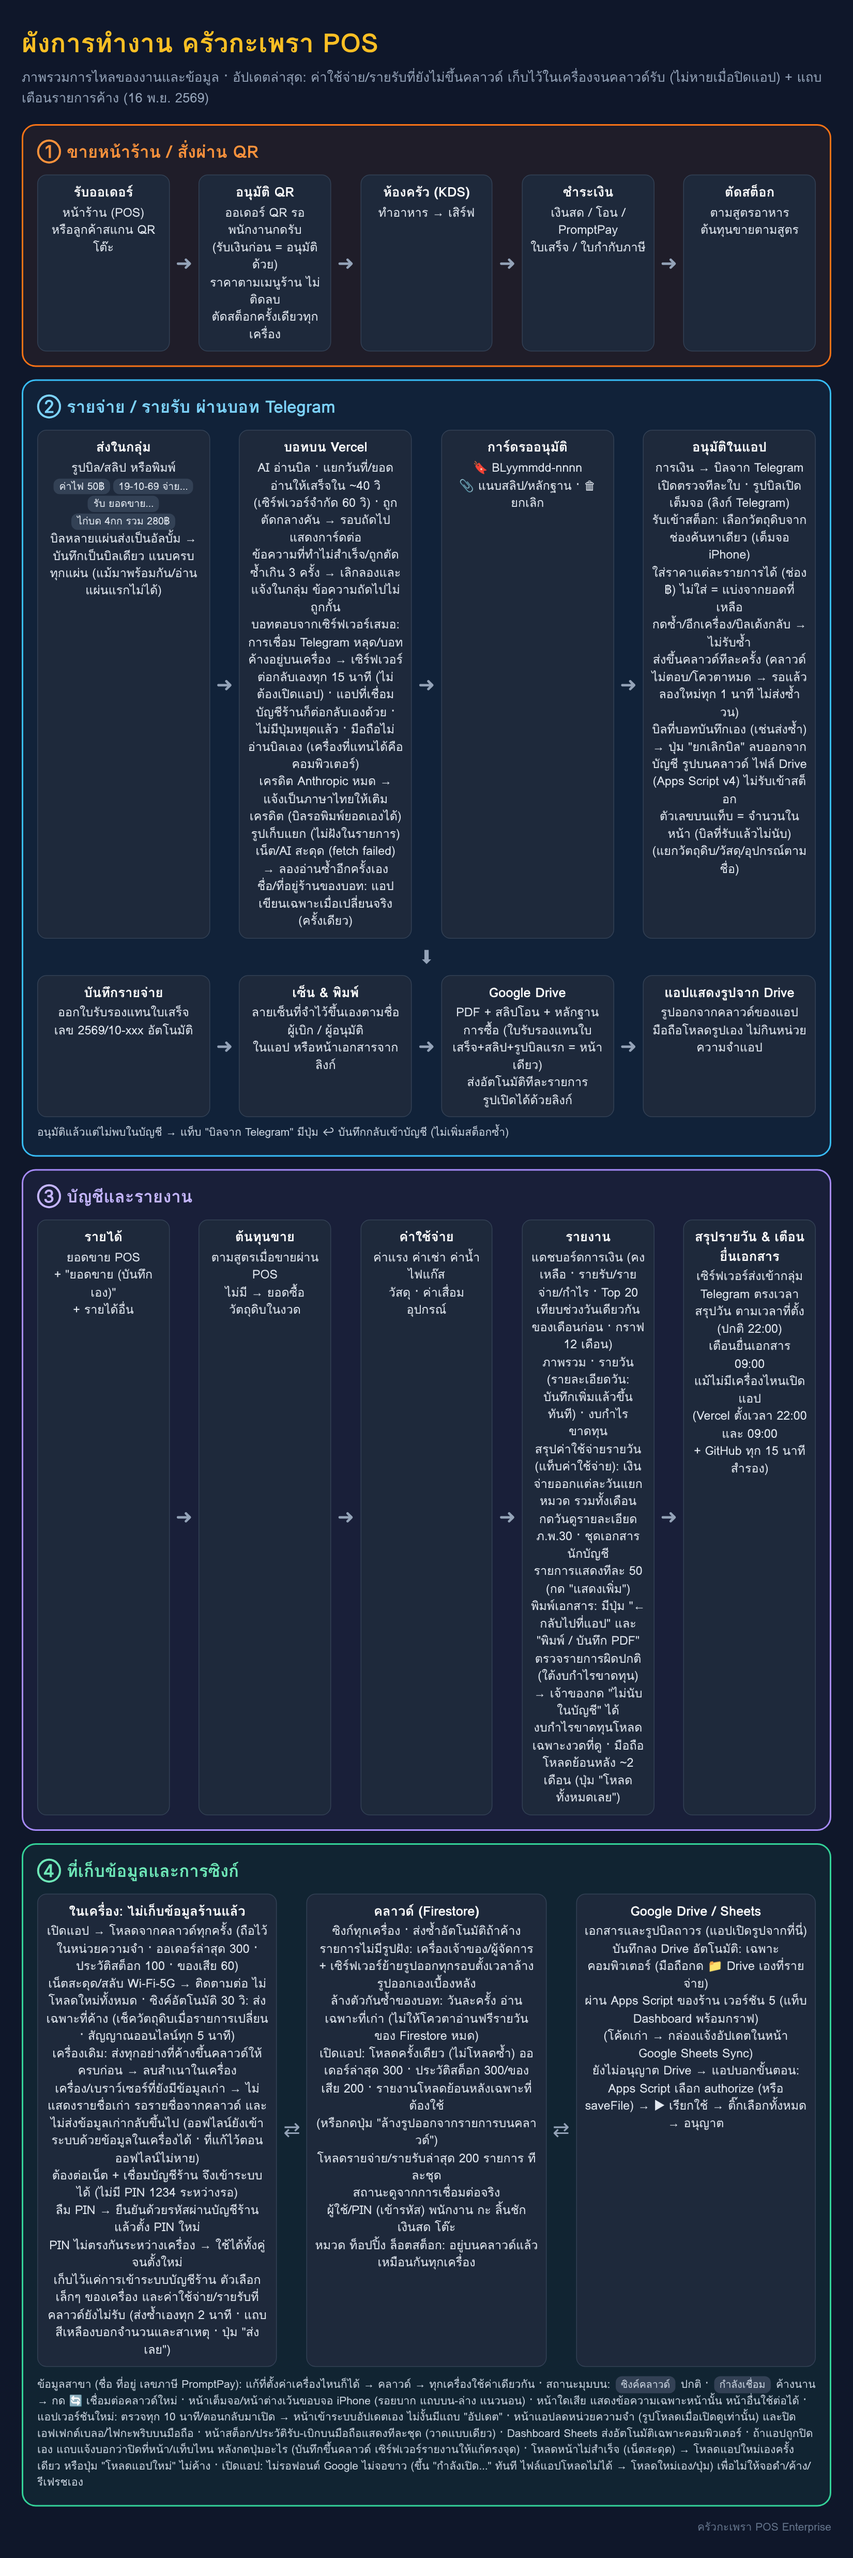
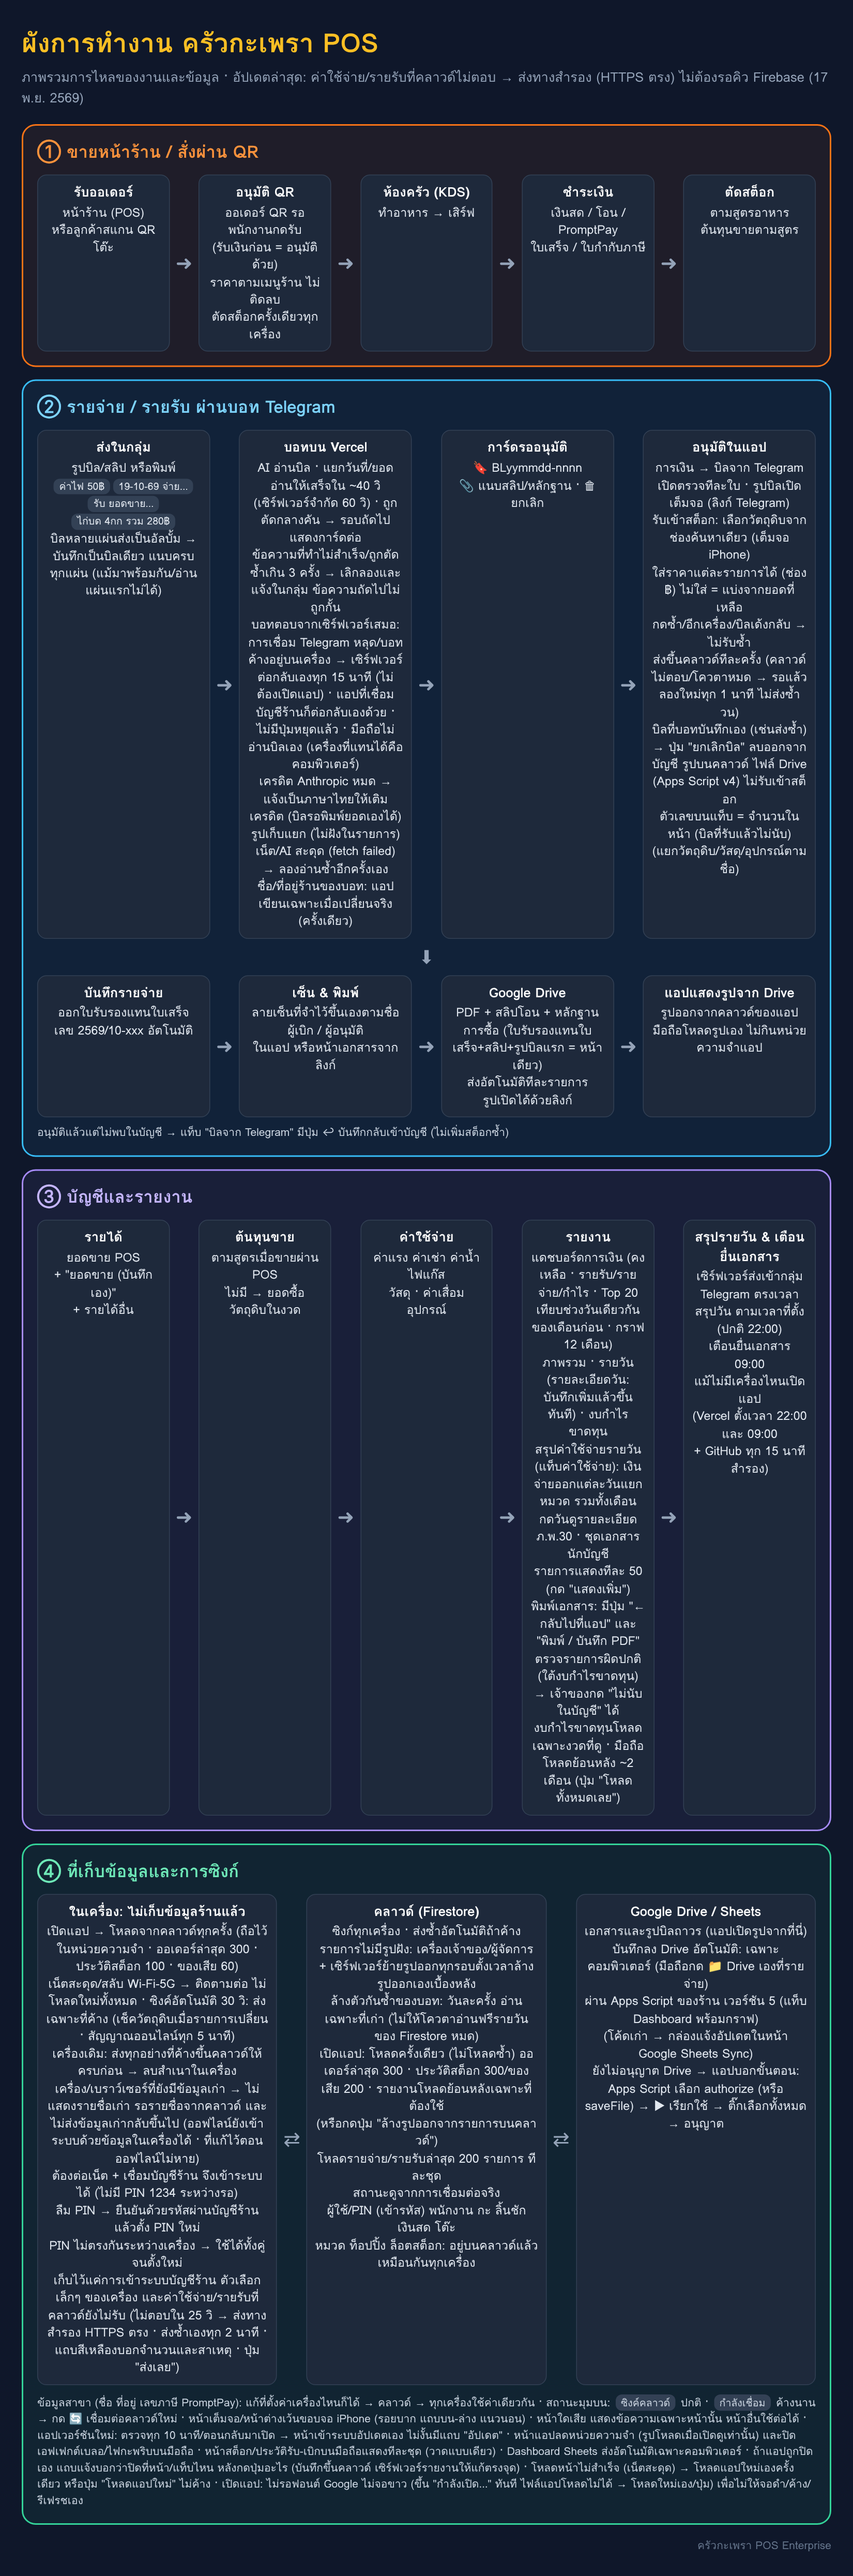
Expenses and income the Firebase library leaves unanswered go over a plain HTTPS request
The owner's phone showed 3 records waiting with 'the cloud did not answer
in 25 seconds' while reads worked and the quota was fine: the library's
saves stopped being answered and every record waited behind them. A save
not answered in 25 s, and every resend, now writes the record with one
request to Firestore's REST API as the shop account (same security
rules), outside the library's queue.

Claude-Session: https://claude.ai/code/session_01Gq3UvYW4wv3hsVCXoh5wxy

diff --git a/docs/workflow/flow.html b/docs/workflow/flow.html
@@ -17,7 +17,7 @@ h1{margin:0 0 4px;font-size:34px;color:#fbbf24}.sub{color:#94a3b8;font-size:17px
 .foot{color:#64748b;font-size:14px;margin-top:6px;text-align:right}
 </style></head><body>
 <h1>ผังการทำงาน ครัวกะเพรา POS</h1>
-<div class="sub">ภาพรวมการไหลของงานและข้อมูล · อัปเดตล่าสุด: ค่าใช้จ่าย/รายรับที่ยังไม่ขึ้นคลาวด์ เก็บไว้ในเครื่องจนคลาวด์รับ (ไม่หายเมื่อปิดแอป) + แถบเตือนรายการค้าง (16 พ.ย. 2569)</div>
+<div class="sub">ภาพรวมการไหลของงานและข้อมูล · อัปเดตล่าสุด: ค่าใช้จ่าย/รายรับที่คลาวด์ไม่ตอบ → ส่งทางสำรอง (HTTPS ตรง) ไม่ต้องรอคิว Firebase (17 พ.ย. 2569)</div>
 
 <div class="lane pos"><h2>① ขายหน้าร้าน / สั่งผ่าน QR</h2>
 <div class="row">
@@ -56,7 +56,7 @@ h1{margin:0 0 4px;font-size:34px;color:#fbbf24}.sub{color:#94a3b8;font-size:17px
 
 <div class="lane data"><h2>④ ที่เก็บข้อมูลและการซิงก์</h2>
 <div class="row">
-<div class="box"><b>ในเครื่อง: ไม่เก็บข้อมูลร้านแล้ว</b>เปิดแอป → โหลดจากคลาวด์ทุกครั้ง (ถือไว้ในหน่วยความจำ · ออเดอร์ล่าสุด 300 · ประวัติสต็อก 100 · ของเสีย 60)<br>เน็ตสะดุด/สลับ Wi-Fi-5G → ติดตามต่อ ไม่โหลดใหม่ทั้งหมด · ซิงค์อัตโนมัติ 30 วิ: ส่งเฉพาะที่ค้าง (เช็ควัตถุดิบเมื่อรายการเปลี่ยน · สัญญาณออนไลน์ทุก 5 นาที)<br>เครื่องเดิม: ส่งทุกอย่างที่ค้างขึ้นคลาวด์ให้ครบก่อน → ลบสำเนาในเครื่อง<br>เครื่อง/เบราว์เซอร์ที่ยังมีข้อมูลเก่า → ไม่แสดงรายชื่อเก่า รอรายชื่อจากคลาวด์ และไม่ส่งข้อมูลเก่ากลับขึ้นไป (ออฟไลน์ยังเข้าระบบด้วยข้อมูลในเครื่องได้ · ที่แก้ไว้ตอนออฟไลน์ไม่หาย)<br>ต้องต่อเน็ต + เชื่อมบัญชีร้าน จึงเข้าระบบได้ (ไม่มี PIN 1234 ระหว่างรอ)<br>ลืม PIN → ยืนยันด้วยรหัสผ่านบัญชีร้าน แล้วตั้ง PIN ใหม่<br>PIN ไม่ตรงกันระหว่างเครื่อง → ใช้ได้ทั้งคู่จนตั้งใหม่<br>เก็บไว้แค่การเข้าระบบบัญชีร้าน ตัวเลือกเล็กๆ ของเครื่อง และค่าใช้จ่าย/รายรับที่คลาวด์ยังไม่รับ (ส่งซ้ำเองทุก 2 นาที · แถบสีเหลืองบอกจำนวนและสาเหตุ · ปุ่ม "ส่งเลย")</div><div class="ar">⇄</div>
+<div class="box"><b>ในเครื่อง: ไม่เก็บข้อมูลร้านแล้ว</b>เปิดแอป → โหลดจากคลาวด์ทุกครั้ง (ถือไว้ในหน่วยความจำ · ออเดอร์ล่าสุด 300 · ประวัติสต็อก 100 · ของเสีย 60)<br>เน็ตสะดุด/สลับ Wi-Fi-5G → ติดตามต่อ ไม่โหลดใหม่ทั้งหมด · ซิงค์อัตโนมัติ 30 วิ: ส่งเฉพาะที่ค้าง (เช็ควัตถุดิบเมื่อรายการเปลี่ยน · สัญญาณออนไลน์ทุก 5 นาที)<br>เครื่องเดิม: ส่งทุกอย่างที่ค้างขึ้นคลาวด์ให้ครบก่อน → ลบสำเนาในเครื่อง<br>เครื่อง/เบราว์เซอร์ที่ยังมีข้อมูลเก่า → ไม่แสดงรายชื่อเก่า รอรายชื่อจากคลาวด์ และไม่ส่งข้อมูลเก่ากลับขึ้นไป (ออฟไลน์ยังเข้าระบบด้วยข้อมูลในเครื่องได้ · ที่แก้ไว้ตอนออฟไลน์ไม่หาย)<br>ต้องต่อเน็ต + เชื่อมบัญชีร้าน จึงเข้าระบบได้ (ไม่มี PIN 1234 ระหว่างรอ)<br>ลืม PIN → ยืนยันด้วยรหัสผ่านบัญชีร้าน แล้วตั้ง PIN ใหม่<br>PIN ไม่ตรงกันระหว่างเครื่อง → ใช้ได้ทั้งคู่จนตั้งใหม่<br>เก็บไว้แค่การเข้าระบบบัญชีร้าน ตัวเลือกเล็กๆ ของเครื่อง และค่าใช้จ่าย/รายรับที่คลาวด์ยังไม่รับ (ไม่ตอบใน 25 วิ → ส่งทางสำรอง HTTPS ตรง · ส่งซ้ำเองทุก 2 นาที · แถบสีเหลืองบอกจำนวนและสาเหตุ · ปุ่ม "ส่งเลย")</div><div class="ar">⇄</div>
 <div class="box"><b>คลาวด์ (Firestore)</b>ซิงก์ทุกเครื่อง · ส่งซ้ำอัตโนมัติถ้าค้าง<br>รายการไม่มีรูปฝัง: เครื่องเจ้าของ/ผู้จัดการ<br>+ เซิร์ฟเวอร์ย้ายรูปออกทุกรอบตั้งเวลาล้างรูปออกเองเบื้องหลัง<br>ล้างตัวกันซ้ำของบอท: วันละครั้ง อ่านเฉพาะที่เก่า (ไม่ให้โควตาอ่านฟรีรายวันของ Firestore หมด)<br>เปิดแอป: โหลดครั้งเดียว (ไม่โหลดซ้ำ) ออเดอร์ล่าสุด 300 · ประวัติสต็อก 300/ของเสีย 200 · รายงานโหลดย้อนหลังเฉพาะที่ต้องใช้<br>(หรือกดปุ่ม "ล้างรูปออกจากรายการบนคลาวด์")<br>โหลดรายจ่าย/รายรับล่าสุด 200 รายการ ทีละชุด<br>สถานะดูจากการเชื่อมต่อจริง<br>ผู้ใช้/PIN (เข้ารหัส) พนักงาน กะ ลิ้นชักเงินสด โต๊ะ<br>หมวด ท็อปปิ้ง ล็อตสต็อก: อยู่บนคลาวด์แล้ว เหมือนกันทุกเครื่อง</div><div class="ar">⇄</div>
 <div class="box"><b>Google Drive / Sheets</b>เอกสารและรูปบิลถาวร (แอปเปิดรูปจากที่นี่)<br>บันทึกลง Drive อัตโนมัติ: เฉพาะคอมพิวเตอร์ (มือถือกด 📁 Drive เองที่รายจ่าย)<br>ผ่าน Apps Script ของร้าน เวอร์ชัน 5 (แท็บ Dashboard พร้อมกราฟ)<br>(โค้ดเก่า → กล่องแจ้งอัปเดตในหน้า Google Sheets Sync)<br>ยังไม่อนุญาต Drive → แอปบอกขั้นตอน: Apps Script เลือก authorize (หรือ saveFile) → ▶ เรียกใช้ → ติ๊กเลือกทั้งหมด → อนุญาต</div>
 </div>

diff --git a/src/services/firebaseService.ts b/src/services/firebaseService.ts
@@ -44,6 +44,7 @@ import {
 import { initializeAppCheck, ReCaptchaV3Provider } from 'firebase/app-check';
 import { isStubOrderDoc, leftLimitedWindow } from '../utils/orderUtils';
 import firebaseConfig from '../../firebase-applet-config.json';
+import { toFsFields } from '../server/firestoreRest';
 import { Order, OrderStatus, CartItem, Ingredient, Branch, StockAdjustmentLog, WasteLog, Expense, OtherIncome, MenuItem, CategoryItem, AddOnOption, SystemSettings } from '../types';
 
 /** Stock types saved with an ingredient (see utils/stockTypes) */
@@ -1018,6 +1019,91 @@ function cloudPurchaseImages(expense: Expense, maxEach = Infinity): { name: stri
   return others + total < 900_000 ? imgs : null;
 }
 
+/** An expense as its cloud document (without updatedAt, which each way of saving stamps itself) */
+function expensePayload(expense: Expense, branch: Branch | undefined, nowIso: string): Record<string, unknown> {
+  return {
+    id: expense.id,
+    branchId: expense.branchId || branch?.id || '',
+    category: expense.category,
+    title: expense.title,
+    amount: Number(expense.amount) || 0,
+    includeVat: !!expense.includeVat,
+    vatAmount: Number(expense.vatAmount) || 0,
+    netAmount: Number(expense.netAmount) || 0,
+    refNumber: expense.refNumber || '',
+    note: expense.note || '',
+    date: expense.date,
+    receiptImage: expense.receiptImage || null,
+    receiptImageName: expense.receiptImageName || null,
+    substituteReceipt: expense.substituteReceipt || null,
+    paidFrom: expense.paidFrom || null,
+    vat36: expense.vat36 || null,
+    driveFiles: expense.driveFiles || null,
+    purchaseImages: cloudPurchaseImages(expense),
+    syncedAt: nowIso
+  };
+}
+
+/** An income record as its cloud document (without updatedAt) */
+function incomePayload(income: OtherIncome, branch: Branch | undefined, nowIso: string): Record<string, unknown> {
+  return {
+    id: income.id,
+    branchId: income.branchId || branch?.id || '',
+    category: income.category,
+    title: income.title,
+    amount: Number(income.amount) || 0,
+    date: income.date,
+    paymentMethod: income.paymentMethod || 'promptpay',
+    payerName: income.payerName || '',
+    refNumber: income.refNumber || '',
+    note: income.note || '',
+    slipImage: income.slipImage && income.slipImage.length < 250000 ? income.slipImage : null,
+    slipImageName: income.slipImageName || null,
+    syncedAt: nowIso
+  };
+}
+
+/**
+ * An expense or income saved with one plain HTTPS request (Firestore's REST API, as the shop
+ * account), not through the Firebase library. On the owner's phone the library's saves stopped
+ * being answered (reads still worked) and every record waited behind them; this way does not wait
+ * in that line. The same security rules apply.
+ */
+export async function saveMoneyRecordDirect(kind: 'e' | 'i', rec: Expense | OtherIncome, branch?: Branch): Promise<boolean> {
+  const u = authInstance?.currentUser;
+  if (!u || u.isAnonymous || !navigator.onLine) return false;
+  try {
+    const token = await u.getIdToken();
+    const cfg = firebaseConfig as any;
+    const collectionName = kind === 'e' ? 'expenses' : 'incomes';
+    const prefix = kind === 'e' ? 'exp-' : 'inc-';
+    const id = rec.id.startsWith(prefix) ? rec.id : `${prefix}${rec.id}`;
+    const nowIso = new Date().toISOString();
+    const data = { ...(kind === 'e' ? expensePayload(rec as Expense, branch, nowIso) : incomePayload(rec as OtherIncome, branch, nowIso)), updatedAt: new Date() };
+    const mask = Object.keys(data).map(k => `updateMask.fieldPaths=${encodeURIComponent(k)}`).join('&');
+    const url = `https://firestore.googleapis.com/v1/projects/${cfg.projectId}/databases/${encodeURIComponent(cfg.firestoreDatabaseId || '(default)')}/documents/${collectionName}/${encodeURIComponent(id)}?${mask}`;
+    const controller = new AbortController();
+    const timer = setTimeout(() => controller.abort(), 30_000);
+    try {
+      const res = await fetch(url, {
+        method: 'PATCH',
+        headers: { Authorization: `Bearer ${token}`, 'Content-Type': 'application/json' },
+        body: JSON.stringify({ fields: toFsFields(data) }),
+        signal: controller.signal
+      });
+      if (res.ok) return true;
+      const body = await res.json().catch(() => ({}));
+      lastWriteError = `HTTP ${res.status} ${String((body as any)?.error?.message || '').slice(0, 140)}`.trim();
+      return false;
+    } finally {
+      clearTimeout(timer);
+    }
+  } catch (err) {
+    noteWriteError(err);
+    return false;
+  }
+}
+
 /** Why the last save of an expense or income failed (shown to the person while records wait) */
 let lastWriteError = '';
 export const lastCloudWriteError = () => lastWriteError;
@@ -1034,28 +1120,7 @@ export async function syncExpenseToFirestore(expense: Expense, branch?: Branch):
     const expenseRef = doc(dbInstance, 'expenses', expenseDocId);
     const nowIso = new Date().toISOString();
 
-    const payload = {
-      id: expense.id,
-      branchId: expense.branchId || branch?.id || '',
-      category: expense.category,
-      title: expense.title,
-      amount: Number(expense.amount) || 0,
-      includeVat: !!expense.includeVat,
-      vatAmount: Number(expense.vatAmount) || 0,
-      netAmount: Number(expense.netAmount) || 0,
-      refNumber: expense.refNumber || '',
-      note: expense.note || '',
-      date: expense.date,
-      receiptImage: expense.receiptImage || null,
-      receiptImageName: expense.receiptImageName || null,
-      substituteReceipt: expense.substituteReceipt || null,
-      paidFrom: expense.paidFrom || null,
-      vat36: expense.vat36 || null,
-      driveFiles: expense.driveFiles || null,
-      purchaseImages: cloudPurchaseImages(expense),
-      syncedAt: nowIso,
-      updatedAt: serverTimestamp()
-    };
+    const payload = { ...expensePayload(expense, branch, nowIso), updatedAt: serverTimestamp() };
 
     await setDoc(expenseRef, payload, { merge: true });
     return true;
@@ -1185,22 +1250,7 @@ export async function syncIncomeToFirestore(income: OtherIncome, branch?: Branch
     const incomeRef = doc(dbInstance, 'incomes', incomeDocId);
     const nowIso = new Date().toISOString();
 
-    const payload = {
-      id: income.id,
-      branchId: income.branchId || branch?.id || '',
-      category: income.category,
-      title: income.title,
-      amount: Number(income.amount) || 0,
-      date: income.date,
-      paymentMethod: income.paymentMethod || 'promptpay',
-      payerName: income.payerName || '',
-      refNumber: income.refNumber || '',
-      note: income.note || '',
-      slipImage: (income.slipImage && income.slipImage.length < 250000) ? income.slipImage : null,
-      slipImageName: income.slipImageName || null,
-      syncedAt: nowIso,
-      updatedAt: serverTimestamp()
-    };
+    const payload = { ...incomePayload(income, branch, nowIso), updatedAt: serverTimestamp() };
 
     await setDoc(incomeRef, payload, { merge: true });
     return true;

diff --git a/src/context/POSContext.tsx b/src/context/POSContext.tsx
@@ -59,6 +59,7 @@ import {
   syncBranchToFirestore,
   pingBranchToFirestore,
   lastCloudWriteError,
+  saveMoneyRecordDirect,
   syncOrderToFirestore,
   syncOrdersBatchToFirestore,
   syncInventoryToFirestore,
@@ -4495,6 +4496,8 @@ export const POSProvider: React.FC<{ children: ReactNode }> = ({ children }) => 
     // The record goes at once; its pictures follow in the background (a large picture first in
     // line held the record and everything after it)
     void answeredSoon(send(rec))
+      // Not answered: the same record over a plain request (see saveMoneyRecordDirect)
+      .then(ok => ok || saveMoneyRecordDirect(kind, rec, currentBranch))
       .then(ok => {
         if (ok) {
           markUnsent(key, false);
@@ -4592,13 +4595,13 @@ export const POSProvider: React.FC<{ children: ReactNode }> = ({ children }) => 
               const rec = incomesRef.current.find(r => r.id === id) || (box[key] as OtherIncome | undefined);
               if (!rec) return true; // deleted since
               if (!incomesRef.current.some(r => r.id === id)) setIncomes(prev => (prev.some(r => r.id === id) ? prev : [rec, ...prev]));
-              return answeredSoon(syncIncomeToFirestore(rec, currentBranch));
+              return (await answeredSoon(syncIncomeToFirestore(rec, currentBranch))) || saveMoneyRecordDirect('i', rec, currentBranch);
             })()
           : await (async () => {
               const rec = expensesRef.current.find(r => r.id === id) || (box[key] as Expense | undefined);
               if (!rec) return true;
               if (!expensesRef.current.some(r => r.id === id)) setExpenses(prev => (prev.some(r => r.id === id) ? prev : [rec, ...prev]));
-              return answeredSoon(syncExpenseToFirestore(rec, currentBranch));
+              return (await answeredSoon(syncExpenseToFirestore(rec, currentBranch))) || saveMoneyRecordDirect('e', rec, currentBranch);
             })();
       if (ok) {
         markUnsent(key, false);
